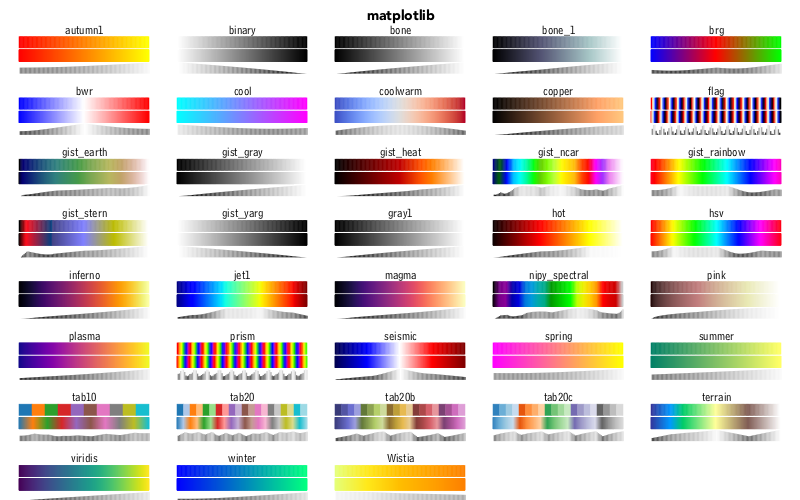
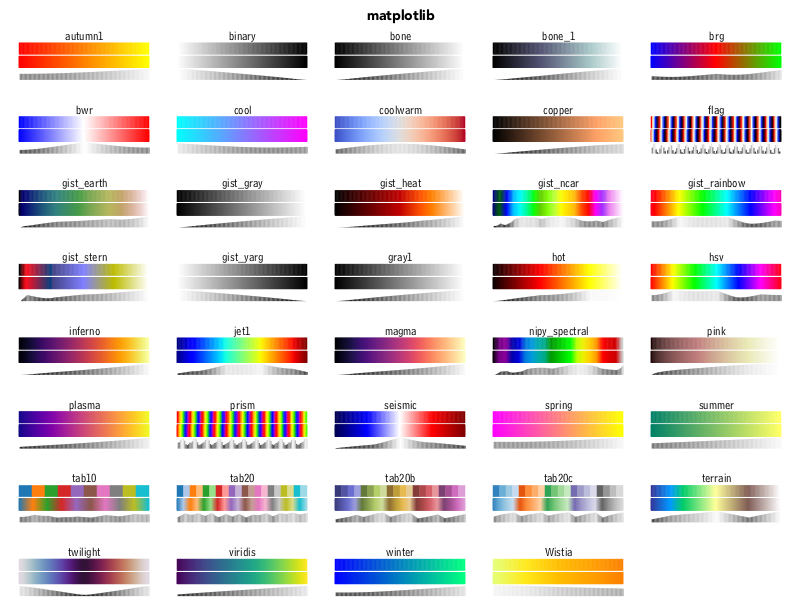
build based on 2fb91ff

diff --git a/dev/search_index.js b/dev/search_index.js
@@ -117,7 +117,7 @@ var documenterSearchIndex = {"docs": [
     "page": "Basic usage",
     "title": "Matplotlib compatibility",
     "category": "section",
-    "text": "Most of the color schemes in Matplotlib are available. The following list gives a general picture.using ColorSchemes\n\n# https://matplotlib.org/examples/color/colormaps_reference.html\n\nmatplotlibcmaps = Dict(\n   :perceptuallyuniformsequential => [\n      :viridis, :plasma, :inferno, :magma],\n   :sequential => [\n      :Greys_9, :Purples_9, :Blues_9, :Greens_9, :Oranges_9, :Reds_9,\n      :YlOrBr_9, :YlOrRd_9, :OrRd_9, :PuRd_9, :RdPu_9, :BuPu_9,\n      :GnBu_9, :PuBu_9, :YlGnBu_9, :PuBuGn_9, :BuGn_9, :YlGn_9],\n   :sequential2 => [\n      :binary, :gist_yarg, :gist_gray, :gray, :bone, :pink,\n      :spring, :summer, :autumn, :winter, :cool, :Wistia,\n      :hot, :afmhot, :gist_heat, :copper],\n   :diverging => [\n      :PiYG_11, :PRGn_11, :BrBG_11, :PuOr_11, :RdGy_11, :RdBu_11,\n      :RdYlBu_11, :RdYlGn_11, :Spectral_11, :coolwarm, :bwr, :seismic],\n   :qualitative => [\n      :Pastel1_9, :Pastel2_8, :Paired_11, :Accent_8,\n      :Dark2_8, :Set1_9, :Set2_8, :Set3_12,\n      :tab10, :tab20, :tab20b, :tab20c],\n   :miscellaneous => [\n      :flag, :prism, :ocean, :gist_earth, :terrain, :gist_stern,\n      :gnuplot, :gnuplot2, :CMRmap, :cubehelix, :brg, :hsv,\n      :gist_rainbow, :rainbow, :jet, :nipy_spectral, :gist_ncar]\n   )\n\nfor (k, v) in matplotlibcmaps\n   println(\"$(rpad(k, 12)): $(length(v))\")\n   for cs in v\n      try\n         c = ColorSchemes.colorschemes[cs]\n      catch\n         println(\"\\t$(rpad(cs, 12)) not currently in stock\")\n      end\n   end\nend"
+    "text": "Most of the color schemes in Matplotlib are available. The following list gives a general picture.using ColorSchemes\n\n# https://matplotlib.org/examples/color/colormaps_reference.html\n\nmatplotlibcmaps = Dict(\n   :perceptuallyuniformsequential => [\n      :viridis, :plasma, :inferno, :magma],\n   :sequential => [\n      :Greys_9, :Purples_9, :Blues_9, :Greens_9, :Oranges_9, :Reds_9,\n      :YlOrBr_9, :YlOrRd_9, :OrRd_9, :PuRd_9, :RdPu_9, :BuPu_9,\n      :GnBu_9, :PuBu_9, :YlGnBu_9, :PuBuGn_9, :BuGn_9, :YlGn_9],\n   :sequential2 => [\n      :binary, :gist_yarg, :gist_gray, :gray, :bone, :pink,\n      :spring, :summer, :autumn, :winter, :cool, :Wistia,\n      :hot, :afmhot, :gist_heat, :copper],\n   :diverging => [\n      :PiYG_11, :PRGn_11, :BrBG_11, :PuOr_11, :RdGy_11, :RdBu_11,\n      :RdYlBu_11, :RdYlGn_11, :Spectral_11, :coolwarm, :bwr, :seismic],\n   :cyclical => [\n        :twilight, :twilight_shifted, :hsv],\n   :qualitative => [\n      :Pastel1_9, :Pastel2_8, :Paired_11, :Accent_8,\n      :Dark2_8, :Set1_9, :Set2_8, :Set3_12,\n      :tab10, :tab20, :tab20b, :tab20c],\n   :miscellaneous => [\n      :flag, :prism, :ocean, :gist_earth, :terrain, :gist_stern,\n      :gnuplot, :gnuplot2, :CMRmap, :cubehelix, :brg, :hsv,\n      :gist_rainbow, :rainbow, :jet, :nipy_spectral, :gist_ncar]\n   )\n\nfor (k, v) in matplotlibcmaps\n   println(\"$(rpad(k, 12)) $(length(v))\")\n   for cs in v\n      try\n         c = ColorSchemes.colorschemes[cs]\n      catch\n         println(\"\\t$(rpad(cs, 12)) not currently in stock\")\n      end\n   end\nend"
 },
 
 {

diff --git a/dev/basics/index.html b/dev/basics/index.html
@@ -107,6 +107,8 @@ matplotlibcmaps = Dict(
    :diverging =&gt; [
       :PiYG_11, :PRGn_11, :BrBG_11, :PuOr_11, :RdGy_11, :RdBu_11,
       :RdYlBu_11, :RdYlGn_11, :Spectral_11, :coolwarm, :bwr, :seismic],
+   :cyclical =&gt; [
+        :twilight, :twilight_shifted, :hsv],
    :qualitative =&gt; [
       :Pastel1_9, :Pastel2_8, :Paired_11, :Accent_8,
       :Dark2_8, :Set1_9, :Set2_8, :Set3_12,
@@ -118,7 +120,7 @@ matplotlibcmaps = Dict(
    )
 
 for (k, v) in matplotlibcmaps
-   println(&quot;$(rpad(k, 12)): $(length(v))&quot;)
+   println(&quot;$(rpad(k, 12)) $(length(v))&quot;)
    for cs in v
       try
          c = ColorSchemes.colorschemes[cs]
@@ -126,9 +128,11 @@ for (k, v) in matplotlibcmaps
          println(&quot;\t$(rpad(cs, 12)) not currently in stock&quot;)
       end
    end
-end</code></pre><pre><code class="language-none">sequential  : 18
-qualitative : 12
-sequential2 : 16
-perceptuallyuniformsequential: 4
-diverging   : 12
-miscellaneous: 17</code></pre></div><footer><hr/><a class="previous" href="../"><span class="direction">Previous</span><span class="title">Introduction</span></a><a class="next" href="../finding/"><span class="direction">Next</span><span class="title">Finding colors</span></a></footer></article></body></html>
+end</code></pre><pre><code class="language-none">cyclical     3
+	twilight_shifted not currently in stock
+sequential   18
+qualitative  12
+sequential2  16
+perceptuallyuniformsequential 4
+diverging    12
+miscellaneous 17</code></pre></div><footer><hr/><a class="previous" href="../"><span class="direction">Previous</span><span class="title">Introduction</span></a><a class="next" href="../finding/"><span class="direction">Next</span><span class="title">Finding colors</span></a></footer></article></body></html>

diff --git a/dev/assets/search.js b/dev/assets/search.js
@@ -39,8 +39,8 @@ parseUri.options = {
 requirejs.config({
     paths: {
         'jquery': 'https://cdnjs.cloudflare.com/ajax/libs/jquery/3.1.1/jquery.min',
-        'lunr': 'https://cdnjs.cloudflare.com/ajax/libs/lunr.js/2.3.1/lunr.min',
-        'lodash': 'https://cdnjs.cloudflare.com/ajax/libs/lodash.js/4.17.4/lodash.min',
+        'lunr': 'https://cdnjs.cloudflare.com/ajax/libs/lunr.js/2.3.5/lunr.min',
+        'lodash': 'https://cdnjs.cloudflare.com/ajax/libs/lodash.js/4.17.11/lodash.min',
     }
 });
 
